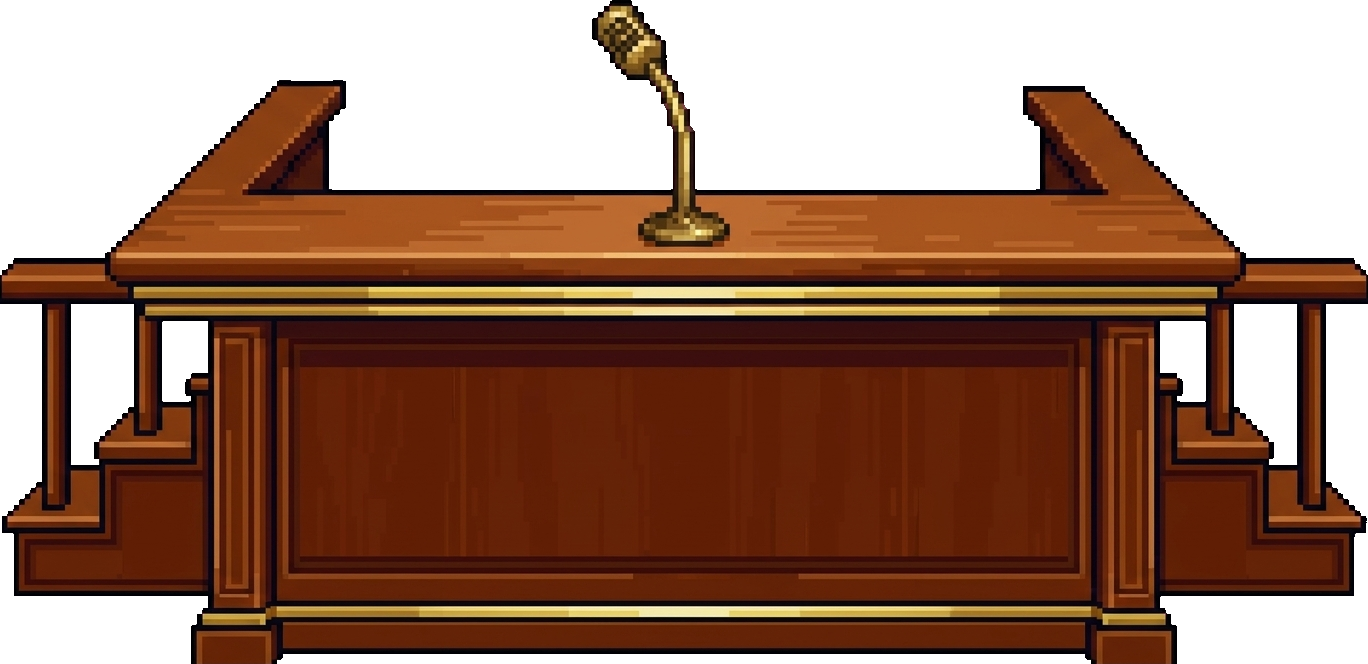
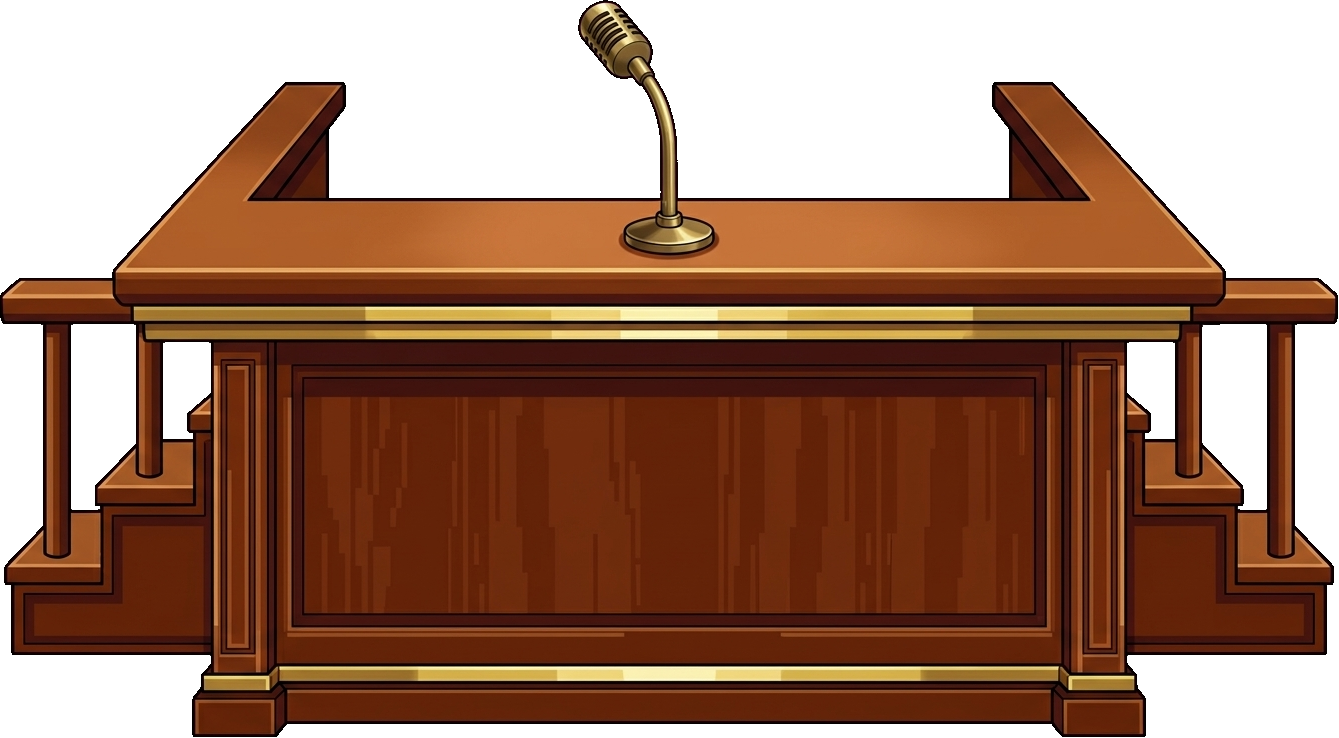
Fix podium art style

diff --git a/process_assets.py b/process_assets.py
@@ -15,14 +15,15 @@ import numpy as np
 from PIL import Image
 from scipy import ndimage
 
-CURRENT_ARTIFACT_DIR = r"C:\Users\luiso\.gemini\antigravity\brain\91e780e1-ee3d-4c04-949d-db65c67e0f4d"
+CURRENT_ARTIFACT_DIR = r"C:\Users\luiso\.gemini\antigravity\brain\08f107f5-df93-448c-9eb8-753b2f2f4634"
+PREV_ARTIFACT_DIR_1 = r"C:\Users\luiso\.gemini\antigravity\brain\91e780e1-ee3d-4c04-949d-db65c67e0f4d"
 PREV_ARTIFACT_DIR = r"C:\Users\luiso\.gemini\antigravity\brain\7d7a0700-41bc-4655-a94e-d886430a5c04"
 LEGACY_ARTIFACT_DIR = r"C:\Users\luiso\.gemini\antigravity\brain\d6601f43-c0ae-494d-bbf8-ca413b3a64ed"
 DEST_DIR = r"c:\Proyectos\ace-attorney-gemini\assets"
 os.makedirs(DEST_DIR, exist_ok=True)
 
 def find_asset_file(filename: str) -> str:
-    for d in [CURRENT_ARTIFACT_DIR, PREV_ARTIFACT_DIR, LEGACY_ARTIFACT_DIR]:
+    for d in [CURRENT_ARTIFACT_DIR, PREV_ARTIFACT_DIR_1, PREV_ARTIFACT_DIR, LEGACY_ARTIFACT_DIR]:
         p = os.path.join(d, filename)
         if os.path.exists(p):
             return p
@@ -381,9 +382,9 @@ def run_all_fixes():
 
     # 6. Standalone Courtroom Furniture Props (Podium & Defense Table)
     process_standalone_prop(
-        "court_podium_clean_witness_box_1787550287556.jpg",
+        "court_podium_clean_1787626053367.jpg",
         "court_podium.png",
-        crop_box=(4, 100, 1372, 764)
+        crop_box=(19, 24, 1358, 762)
     )
     # Top of the crop must land on the desk's far-edge outline, NOT above it. Rows above
     # that outline are a flat featureless band from the source art; because the bench is
